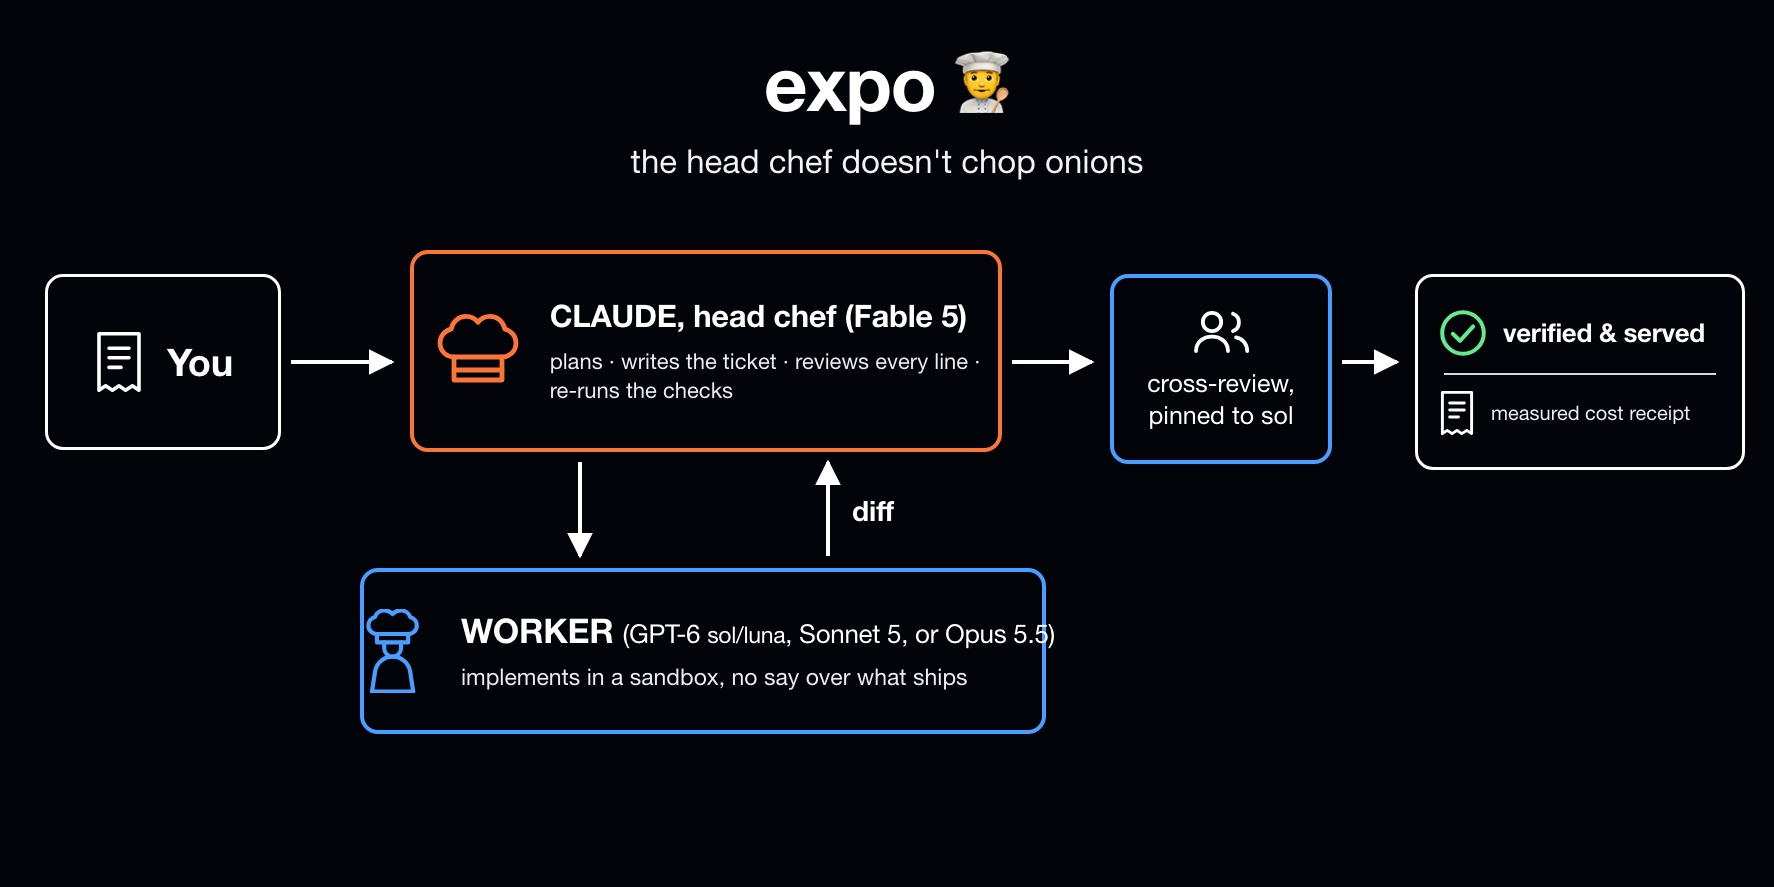
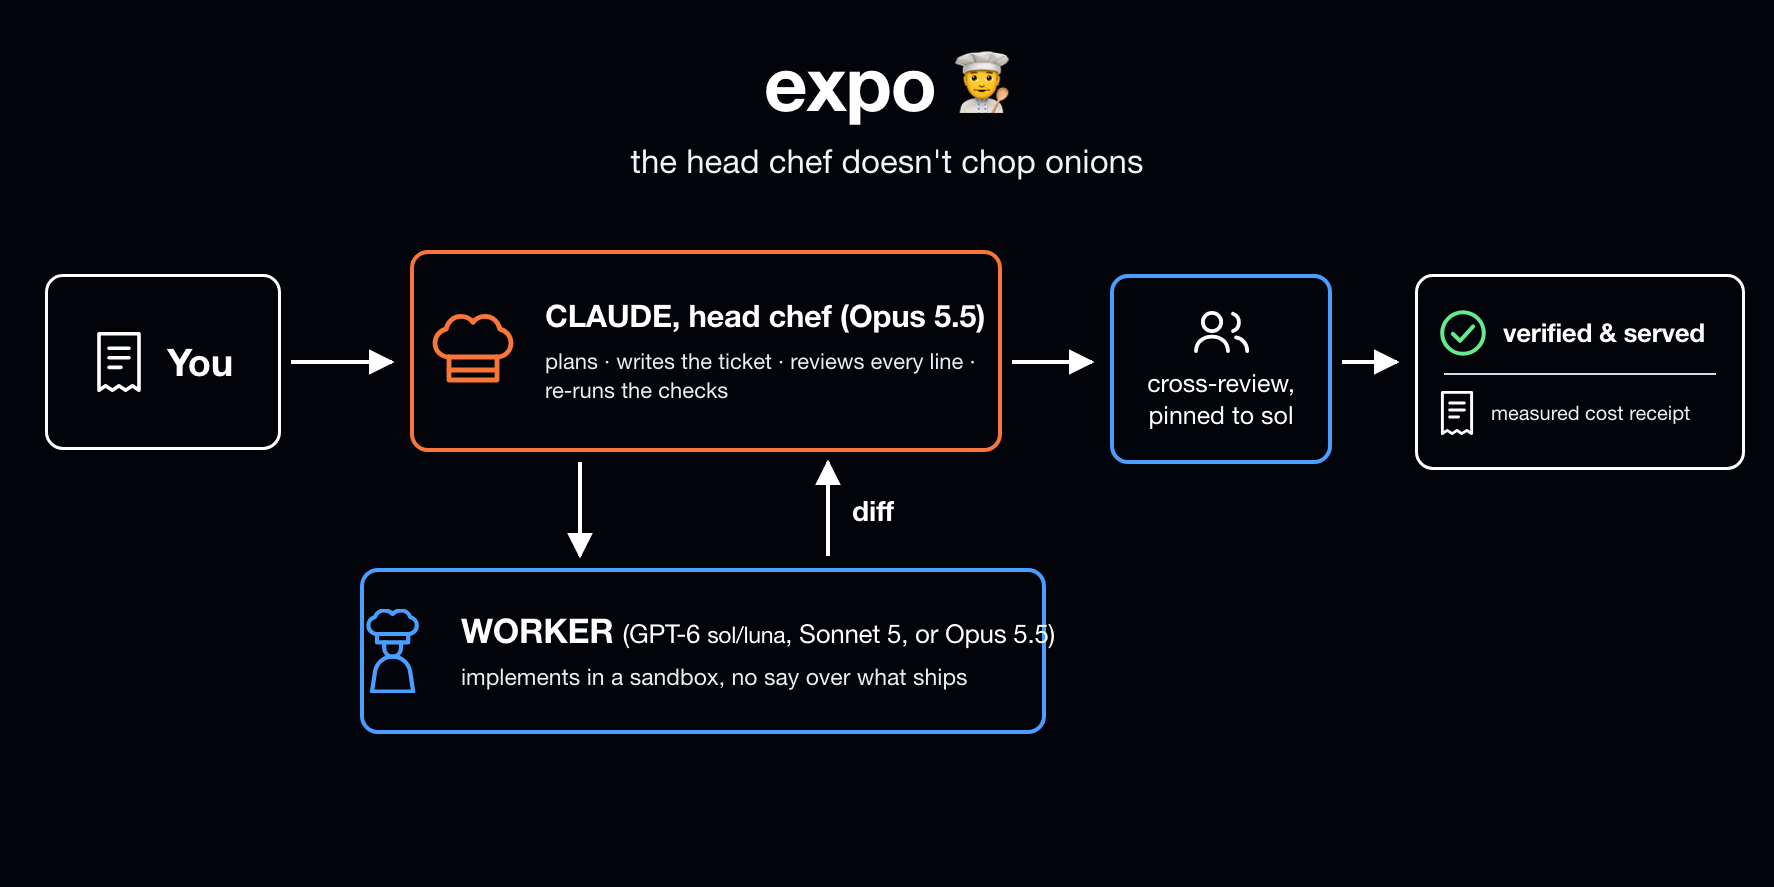
Make Claude Opus 5.5 the head chef
The docs said Fable 5 orchestrates while all eight measured benchmark rows
recorded orchestrator: claude-opus-5, so this closes a gap between the claim
and the evidence as well as adopting the new model.

Two claims could not simply be retargeted. Astra's override-only rationale
rested on its $30 blend matching the Fable orchestrator's; against a $12 Opus
5.5 chef it is 2.5x, so the conclusion survives on a wider margin and the old
three-way-tie citation stays as history rather than being restated about a
model it never measured. And `--with opus` is no longer "the premium worker" -
it runs the chef's own model headless.

The receipt's reference blend deliberately stays at Fable's $30. It is the most
expensive orchestrator the kitchen can run, not the one it usually runs;
pricing orchestration high is what keeps the equal-volume delta a floor.
Moving it to the chef's cheaper rate would have inflated the delta in expo's
own favour, so that one line did not move and the files now say why.

Changed region(s): [[0.248, 0.3348, 0.5581, 0.4566]]

diff --git a/docs/expo-flow.html b/docs/expo-flow.html
@@ -78,7 +78,7 @@
     <path d="M11 32.5h24"/>
   </svg>
   <div class="stack">
-    <div class="lead">CLAUDE, head chef (Fable 5)</div>
+    <div class="lead">CLAUDE, head chef (Opus 5.5)</div>
     <div class="note" style="margin-top:12px">
       plans &middot; writes the ticket &middot; reviews every line &middot;<br>re-runs the checks
     </div>

diff --git a/docs/design.md b/docs/design.md
@@ -255,7 +255,7 @@ doc, or a measured comparison - collected via a multi-source research sweep on
 ## Why the alternate workers are Claude Sonnet 5 and Opus 5.5
 
 - Three workers earn their place: Codex (default, sandboxed, subscription-billed), a
-  Claude Sonnet 5 fallback, and a Claude Opus 5.5 premium worker on the user's own
+  Claude Sonnet 5 fallback, and a headless Claude Opus 5.5 worker on the user's own
   Anthropic plan - no extra key, no provider config, keyless like the rest of the
   two-subscription setup.
 - **The Sonnet route is headless `claude -p`** with `--strict-mcp-config` and
@@ -263,11 +263,12 @@ doc, or a measured comparison - collected via a multi-source research sweep on
   default config dir with zero setup. The honest caveat is that it has no OS sandbox
   underneath (unlike Codex's `workspace-write`), so it is for trusted repos or a
   branch/worktree only.
-- **Opus 5.5 is the premium Claude worker**: it runs through the same keyless route
-  and is the vendor's recommended starting model for long-running agentic coding, with
-  Fable named as the escalation for work where Opus 5.5 at higher effort still falls
-  short, at a $4/$20 per-MTok API list price ($12 50/50 blend) - under the $5/$25 of
-  the Opus 5 it replaces.
+- **The Opus route runs the head chef's own model, headless**: `--with opus` sends the
+  ticket to the same Opus 5.5 that orchestrates, in a separate process with its own
+  context, through the same keyless route, at a $4/$20 per-MTok API list price ($12
+  50/50 blend) - under the $5/$25 of the Opus 5 it replaces. It is deliberately not sold
+  as a capability step up: the vendor's escalation above Opus 5.5 is Fable, for which
+  expo exposes no worker route.
   [Models overview](https://platform.claude.com/docs/en/about-claude/models/overview)
   [Pricing](https://platform.claude.com/docs/en/about-claude/pricing) It drains the
   shared Anthropic quota faster than Sonnet, so Sonnet remains the cheap fallback
@@ -324,11 +325,13 @@ doc, or a measured comparison - collected via a multi-source research sweep on
   change nobody was told about. mise's smoke test is the deliberate exception: it pins
   effort only, so its banner reports what an unpinned run would actually use.
 - Astra is available only through explicit `--tier astra`; task shape never selects it.
-  Its 50/50 input/output blend matches the Fable 5.1 orchestrator, while the independent
-  Artificial Analysis Coding Agent Index calls Fable 5, Fable 5.1, and Astra an
-  effectively three-way tie (68.1, 67.2, and 67.0). Auto-selecting Astra would therefore
-  delegate at the orchestrator's own price without measured capability gain - the cost
-  inversion the delegation floor avoids. [Astra pricing](https://developers.openai.com/api/docs/models/gpt-6-astra)
+  Its $30 50/50 blend is 2.5x the Opus 5.5 orchestrator's $12, so auto-selecting Astra
+  would pay a per-token premium to delegate work the chef could do itself - a sharper
+  form of the cost inversion the delegation floor avoids. Under the previous Fable
+  orchestrator the two blends merely matched, and the argument rested on the independent
+  Artificial Analysis Coding Agent Index calling Fable 5, Fable 5.1 and Astra an
+  effectively three-way tie (68.1, 67.2, and 67.0); no index figure for Opus 5.5 was
+  published as of 2026-09-22, so the price gap now carries the argument alone. [Astra pricing](https://developers.openai.com/api/docs/models/gpt-6-astra)
   [Independent index and benchmark labels](https://www.vellum.ai/blog/gpt-6-astra-benchmarks-explained)
 - The exception is task shape the heuristic cannot safely infer: long, messy, multi-step
   work requiring error recovery. There Astra's OpenAI-published Terminal-Bench 4.0 score
@@ -355,7 +358,8 @@ doc, or a measured comparison - collected via a multi-source research sweep on
   another session is active. Unset id, no transcript, or an empty window → drop the
   line, never guess.
 - This makes the run's cost fully measured on both sides - a real API-list dollar split
-  (worker tokens x worker blend vs orchestration tokens x Fable blend) - rather than a
+  (worker tokens x worker blend vs orchestration tokens x Fable blend, Fable being the
+  conservative reference rather than the Opus 5.5 chef's own cheaper rate) - rather than a
   worker figure next to a cited counterfactual. The vs-Claude-only "10-20x" claim stays
   a citation, because that counterfactual genuinely isn't run per-fire.
 

diff --git a/CHANGELOG.md b/CHANGELOG.md
@@ -5,6 +5,26 @@ expo is a fork of [sous-chef](https://github.com/tomascupr/sous-chef) by Tomas C
 
 ## Unreleased
 
+- **The head chef is Claude Opus 5.5.** The docs had said Fable 5 orchestrates while
+  every one of the eight measured benchmark rows recorded `orchestrator:
+  claude-opus-5`, so this also closes a gap between the claim and the evidence. Astra's
+  override-only rationale had to be restated rather than carried over: it rested on
+  astra's $30 blend *matching* the Fable orchestrator's, and against a $12 Opus 5.5 chef
+  astra now costs 2.5x, which makes the same conclusion follow from a wider margin. No
+  Coding Agent Index figure for Opus 5.5 was published as of 2026-09-22, so the price gap
+  carries that argument alone now, and the old three-way-tie citation is kept as history
+  rather than restated about a model it never measured. `--with opus` is no longer
+  described as the premium worker: it runs the chef's own model headless, which is a
+  second pair of keyless hands and not a capability step up. The vendor's escalation
+  above Opus 5.5 is Fable, for which expo exposes no worker route.
+- **The receipt's reference blend deliberately did not move.** Orchestration is still
+  priced at Fable's $30, not the chef's $12. The reference is the most expensive
+  orchestrator the kitchen can run, not the one it usually runs: pricing orchestration
+  high overstates the all-in and understates the equal-volume delta, which is what makes
+  that delta a floor. Repricing it at Opus 5.5 would have shrunk the all-in and inflated
+  the delta - the one error direction that flatters expo - so "update everything to the
+  new chef" stops deliberately at this line, and the files now say why.
+
 - **Fire's tier table moved to GPT-6 and lost terra.** `gpt-6-sol` lists at $2/$10
   against `gpt-5.6-sol`'s $4/$20, and undercuts `gpt-5.6-terra`'s $2/$12 on output too;
   `gpt-6-luna` lists at $0.10/$0.50 against $0.20/$1.20. A middle tier cheaper than

diff --git a/README.md b/README.md
@@ -4,7 +4,7 @@
 
 # expo
 
-**Fable 5 orchestrates and reviews; GPT-6, Sonnet 5, or Opus 5.5 implements.**
+**Opus 5.5 orchestrates and reviews; GPT-6 implements.**
 
 *Your head chef doesn't chop onions.*
 
@@ -17,7 +17,7 @@
 
 <br>
 
-![expo flow: you hand the order to Claude, the head chef (Fable 5), who plans, writes the ticket, reviews every line, and re-runs the checks; the worker (GPT-6 sol/luna, Sonnet 5, or Opus 5.5) implements in a sandbox with no say over what ships; a cross-review pinned to sol checks the diff; the run ends verified and served, with a measured cost receipt.](docs/expo-flow.png)
+![expo flow: you hand the order to Claude, the head chef (Opus 5.5), who plans, writes the ticket, reviews every line, and re-runs the checks; the worker (GPT-6 sol/luna, Sonnet 5, or Opus 5.5) implements in a sandbox with no say over what ships; a cross-review pinned to sol checks the diff; the run ends verified and served, with a measured cost receipt.](docs/expo-flow.png)
 
 <sub>expo is a fork of [sous-chef](https://github.com/tomascupr/sous-chef) by Tomas Cupr (MIT) - the expediter who calls the orders and checks every plate at the pass. Same two-model kitchen; this line is actively developed here.</sub>
 
@@ -26,7 +26,7 @@
 ---
 
 A Claude Code plugin that splits coding between two frontier models the way a
-kitchen splits work. **Fable plans, writes the ticket, reviews every diff line by
+kitchen splits work. **Opus 5.5 plans, writes the ticket, reviews every diff line by
 line, and re-runs the checks itself. Codex (or a Claude worker) does the implementation,
 with no say over what ships.**
 

diff --git a/skills/receipts/references/receipt-template.md b/skills/receipts/references/receipt-template.md
@@ -13,9 +13,13 @@ or budget spent - write one file to `.expo/receipts/` in the repo root:
   session transcript per [orchestration-tokens.md](orchestration-tokens.md) - not
   the old 5-7k estimate. Dollar figures come from the [prices.md](prices.md)
   blends and get a `~`. A number you don't have is a line you drop - never a
-  guess. Orchestration is priced at the Fable blend (the reference orchestrator); if
-  the session actually ran a cheaper orchestrator, the all-in is overstated and the
-  equal-volume delta understated - the floor stays a floor.
+  guess. Orchestration is priced at the Fable blend - deliberately the most expensive
+  orchestrator the kitchen can run, not the one it usually runs. The chef is normally
+  Opus 5.5 at a $12 blend, so pricing orchestration at Fable's $30 overstates the all-in
+  and understates the equal-volume delta, which is exactly what keeps the floor a floor.
+  Repricing it at the chef's own blend would shrink the all-in and inflate the delta -
+  the one error direction that flatters expo, so the reference stays where it is even
+  though the chef moved.
 
 ```markdown
 # serve: <task one-liner>

diff --git a/skills/fire/references/worker-routes.md b/skills/fire/references/worker-routes.md
@@ -13,10 +13,12 @@ completion while the worker keeps running.
 ## Two models, one route
 
 `sonnet` is the cheap fallback when Codex hits its usage limit mid-serve ("try again
-at HH:MM"); `opus` is the premium keyless worker. Claude Opus 5.5 is the vendor's
-recommended starting model for long-running agentic coding, with Fable named as the
-escalation for work where Opus 5.5 at higher effort still falls short
+at HH:MM"); `opus` runs the same Claude Opus 5.5 the head chef runs, in a separate
+headless process with its own context. That is not a capability step up over the chef -
+the vendor's escalation above Opus 5.5 is Fable, and expo exposes no Fable worker route,
+so that escalation stays a manual choice rather than a `--with` flag
 ([models overview](https://platform.claude.com/docs/en/about-claude/models/overview)).
+What the route buys is a second pair of hands that needs no API key.
 Opus drains
 the shared Anthropic quota faster than Sonnet, so use that premium deliberately. For
 current figures, see [prices.md](../../receipts/references/prices.md).

diff --git a/skills/receipts/references/prices.md b/skills/receipts/references/prices.md
@@ -58,8 +58,10 @@ unstated.
 
 Only models the kitchen actually runs, plus known banner aliases whose logged names
 need receipt pricing, belong in this table (GPT-6 tiers as workers, Sonnet 5 and
-Opus 5.5 as Claude subscription workers, Fable 5 and Opus 5 for pricing orchestration
-tokens). The GPT-5.6 rows outlive their routes on purpose: `gpt-daybreak-blue-latest`
+Opus 5.5 as Claude subscription workers, Opus 5.5 again as the orchestrator whose own
+tokens a receipt prices, Fable 5 as the deliberately conservative reference blend that
+keeps the equal-volume delta a floor, and Opus 5 because existing ledger rows name it
+as orchestrator). The GPT-5.6 rows outlive their routes on purpose: `gpt-daybreak-blue-latest`
 aliases `gpt-5.6-sol`, and the checked-in benchmark measured terra and luna, so
 dropping them would make committed evidence unpriceable. Otherwise a
 retired generation is a stale row waiting to misprice something. An alias row's Source

diff --git a/skills/fire/SKILL.md b/skills/fire/SKILL.md
@@ -76,9 +76,9 @@ to the Codex route only - the Claude subscription route's preflight is just
 
 The Codex route's GPT-6 tiers are chosen by task shape. You already classify every
 task by shape to decide *whether* to fire - the same classification picks the tier,
-for free. Astra is an explicit, override-only tier: it costs the same blend as the
-orchestrator model and is effectively tied with it on the independent Coding Agent
-Index, so task shape must never select it. This applies to the Codex route only; the
+for free. Astra is an explicit, override-only tier: its $30 blend is 2.5x the Opus 5.5
+orchestrator's $12, so delegating there pays a premium per token over work the chef
+could do itself, and task shape must never select it. This applies to the Codex route only; the
 Claude subscription route has no tiers.
 The table presupposes the fire-vs-cook gate already passed: it decides who gets the
 ticket, never whether to delegate.

diff --git a/skills/receipts/references/orchestration-tokens.md b/skills/receipts/references/orchestration-tokens.md
@@ -47,7 +47,8 @@ Honesty rules, same as everywhere else:
 - **It measures token volume, not a cost multiple.** Worker tokens and orchestrator
   tokens are different models with different tokenizers and $/token, so the honest
   derived figure is the API-list **dollar** split (worker tokens × worker blend vs
-  orchestration tokens × Fable blend, both from prices.md), not a raw token ratio
+  orchestration tokens × Fable blend - the conservative reference, not the Opus 5.5
+  chef's own cheaper blend - both from prices.md), not a raw token ratio
   dressed up as savings (the only permitted derived figure is the equal-volume delta, floor,
   per receipt-template.md).
 - **A compacted session still works**: the transcript is append-only and the

diff --git a/AGENTS.md b/AGENTS.md
@@ -1,6 +1,6 @@
 # expo
 
-A Claude Code plugin: Claude (Fable 5) orchestrates and reviews; GPT-6 (Codex CLI)
+A Claude Code plugin: Claude (Opus 5.5) orchestrates and reviews; GPT-6 (Codex CLI)
 or a Claude worker (Sonnet 5 / Opus 5.5) implements. This repo is the plugin itself - there is no build
 step and nothing to compile; the plugin is markdown, JSON, and TOML. The one exception
 is `bench/project`, a Python fixture the benchmark edits.
